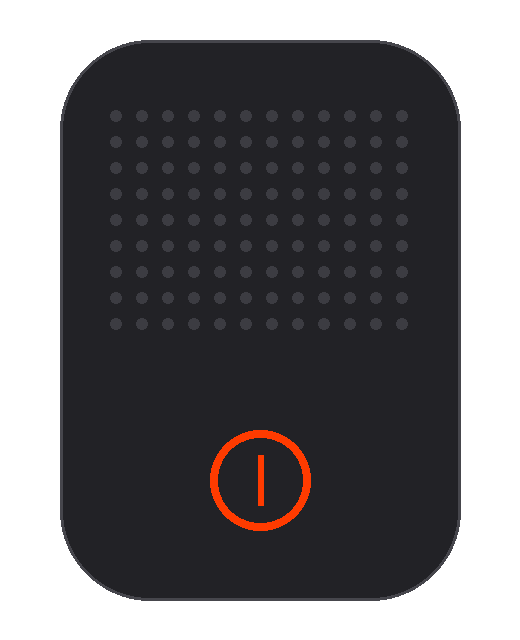
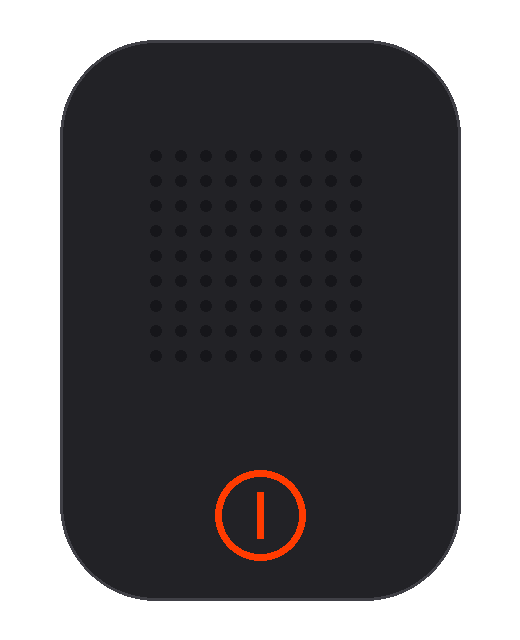
feat: three demo brands, so diversity is shown rather than asserted
The rubric scores clear, stable and diverse output, and every artefact so
far came from a single product. Added two more brands with different
silhouettes, palettes and categories — an insulated flask and a coffee
press — drawn deterministically, no model involved and no licensed
imagery.

scripts/diversity.py runs one verified campaign per brand and writes an
index. Nothing is configured per brand: each palette is derived from its
own logo, so if the pipeline were tuned to the speaker it would show.

The README now opens with the verified pair beside the refused one and the
measured W7900 figures, because a reviewer should meet the evidence before
the prose.

diff --git a/scripts/diversity.py b/scripts/diversity.py
@@ -1,0 +1,113 @@
+"""Run one verified campaign per brand, to show the pipeline is not tuned to one product.
+
+Each brand has a different silhouette, palette and category. The brand palette is
+derived from its own logo, so the backgrounds, accents and typography differ per run
+without any per-brand configuration.
+"""
+
+import argparse
+import asyncio
+import json
+import shutil
+import sys
+from pathlib import Path
+
+from rivet.pipeline.bootstrap import confirm_brand, derive_plan, ingest_asset
+from rivet.pipeline.campaign import run_campaign
+from rivet.storage.assets import AssetStore
+from rivet.storage.db import make_engine
+from rivet.storage.projects import ProjectStore
+from rivet.telemetry.vram import accelerator_report
+
+BRANDS = (
+    ("kora-arc", "Kora Arc", "a portable speaker for campus creators who record anywhere"),
+    ("lumen-flask", "Lumen", "an insulated water bottle for commuters who hate lukewarm coffee"),
+    ("terra-press", "Terra", "a manual coffee press for people who make one good cup a day"),
+)
+GALLERY = Path("docs/gallery")
+SEED = 7
+
+
+def run_brand(root: Path, slug: str, name: str, brief: str, vlm: bool) -> dict[str, object]:
+    fixture = Path("fixtures") / slug
+    engine = make_engine(root / "rivet.db")
+    projects = ProjectStore(engine)
+    assets = AssetStore(engine, root)
+    project = projects.create(name, campaign_seed=SEED)
+    product = ingest_asset(assets, project.id, fixture / "product.png", "product")
+    logo = ingest_asset(assets, project.id, fixture / "logo.png", "logo")
+    confirm_brand(engine, root, project.id, product, logo)
+    projects.set_brief(project.id, brief)
+    derive_plan(engine, project.id, product.path, use_vlm=vlm)
+    receipt = asyncio.run(run_campaign(engine, root, project.id, semantic=False))
+    data = json.loads(receipt.model_dump_json())
+
+    GALLERY.mkdir(parents=True, exist_ok=True)
+    stills: list[str] = []
+    for scene in data["scenes"]:
+        src = Path(scene["still_path"])
+        if src.is_file():
+            dest = GALLERY / f"brand-{slug}-{scene['shot_id']}.png"
+            shutil.copy2(src, dest)
+            stills.append(dest.name)
+    checks = [c for s in data["scenes"] for c in s["checks"]]
+    return {
+        "slug": slug,
+        "name": name,
+        "passed": data["passed"],
+        "receipt": data["receipt_hash"][:16],
+        "checks": f"{sum(1 for c in checks if c['passed'])}/{len(checks)}",
+        "headlines": [s["shot_id"] for s in data["scenes"]],
+        "copy": [
+            next(iter([c["observed"] for c in s["checks"] if c["check_id"] == "A03"]), "")
+            for s in data["scenes"]
+        ],
+        "stills": stills,
+    }
+
+
+def main() -> int:
+    parser = argparse.ArgumentParser(description=__doc__)
+    parser.add_argument("--workdir", type=Path, default=Path(".diversity"))
+    parser.add_argument("--no-vlm", dest="vlm", action="store_false")
+    args = parser.parse_args()
+
+    shutil.rmtree(args.workdir, ignore_errors=True)
+    results = []
+    for index, (slug, name, brief) in enumerate(BRANDS, start=1):
+        print(f"{index}/{len(BRANDS)} {name} ...", flush=True)
+        result = run_brand(args.workdir / slug, slug, name, brief, args.vlm)
+        results.append(result)
+        print(f"    passed={result['passed']} checks={result['checks']}")
+
+    env = accelerator_report()
+    where = env.get("accelerator") or env.get("device", "unknown")
+    lines = [
+        "# One pipeline, three brands",
+        "",
+        (
+            f"Produced by `scripts/diversity.py` on **{where}** "
+            f"(torch {env.get('torch', 'n/a')}, hip {env.get('hip', 'n/a')})."
+        ),
+        "",
+        "Nothing is configured per brand. The palette is derived from each logo, the copy and",
+        "background prompts are written per product, and the same ten checks gate every scene.",
+        "",
+        "| Brand | Verdict | Checks | Receipt |",
+        "| --- | --- | ---: | --- |",
+    ]
+    for r in results:
+        verdict = "verified" if r["passed"] else "blocked"
+        lines.append(f"| {r['name']} | {verdict} | {r['checks']} | `{r['receipt']}` |")
+    lines.append("")
+    for r in results:
+        lines += [f"### {r['name']}", ""]
+        lines += [f'<img src="{s}" width="200">' for s in r["stills"]]
+        lines.append("")
+    (GALLERY / "DIVERSITY.md").write_text("\n".join(lines))
+    print(f"wrote {GALLERY}/DIVERSITY.md")
+    return 0 if all(r["passed"] for r in results) else 1
+
+
+if __name__ == "__main__":
+    sys.exit(main())

diff --git a/scripts/make_fixtures.py b/scripts/make_fixtures.py
@@ -1,0 +1,86 @@
+"""Draw the demo brands.
+
+Three products in different categories, shapes and palettes, so a reviewer can see
+the pipeline is not tuned to one silhouette. Everything here is deterministic
+drawing: no model runs, and the assets are original rather than licensed imagery.
+"""
+
+import sys
+from pathlib import Path
+
+from PIL import Image, ImageDraw
+
+from rivet.compositor.typography import load_font
+
+FIXTURES = Path("fixtures")
+
+
+def _logo(name: str, accent: tuple[int, int, int], out: Path) -> None:
+    image = Image.new("RGBA", (560, 150), (0, 0, 0, 0))
+    draw = ImageDraw.Draw(image)
+    draw.ellipse([12, 45, 72, 105], fill=accent)
+    draw.ellipse([30, 63, 54, 87], fill=(10, 10, 12, 255))
+    font = load_font(58, 600)
+    draw.text((92, 44), name, font=font, fill=(250, 250, 250, 255))
+    image.save(out)
+
+
+def kora_arc(out: Path) -> None:
+    image = Image.new("RGBA", (520, 640), (0, 0, 0, 0))
+    draw = ImageDraw.Draw(image)
+    draw.rounded_rectangle([60, 40, 460, 600], radius=96, fill=(34, 34, 38, 255))
+    draw.rounded_rectangle([60, 40, 460, 600], radius=96, outline=(64, 64, 70, 255), width=3)
+    for row in range(9):
+        for col in range(9):
+            x = 150 + col * 25
+            y = 150 + row * 25
+            draw.ellipse([x, y, x + 11, y + 11], fill=(22, 22, 26, 255))
+    draw.ellipse([215, 470, 305, 560], outline=(255, 59, 0, 255), width=7)
+    draw.line([260, 492, 260, 538], fill=(255, 59, 0, 255), width=7)
+    image.save(out)
+
+
+def lumen_flask(out: Path) -> None:
+    image = Image.new("RGBA", (520, 640), (0, 0, 0, 0))
+    draw = ImageDraw.Draw(image)
+    draw.rounded_rectangle([170, 30, 350, 96], radius=26, fill=(206, 212, 218, 255))
+    draw.rounded_rectangle([150, 90, 370, 610], radius=72, fill=(232, 236, 240, 255))
+    draw.rounded_rectangle([150, 90, 370, 610], radius=72, outline=(178, 186, 194, 255), width=3)
+    draw.rounded_rectangle([186, 150, 232, 560], radius=22, fill=(255, 255, 255, 90))
+    draw.rounded_rectangle([150, 300, 370, 392], radius=10, fill=(23, 132, 176, 255))
+    font = load_font(34, 600)
+    draw.text((196, 328), "LUMEN", font=font, fill=(255, 255, 255, 255))
+    image.save(out)
+
+
+def terra_press(out: Path) -> None:
+    image = Image.new("RGBA", (520, 640), (0, 0, 0, 0))
+    draw = ImageDraw.Draw(image)
+    draw.polygon([(120, 250), (400, 250), (368, 596), (152, 596)], fill=(84, 58, 42, 255))
+    draw.polygon([(120, 250), (400, 250), (392, 288), (128, 288)], fill=(104, 74, 54, 255))
+    draw.rounded_rectangle([196, 96, 324, 262], radius=18, fill=(58, 40, 30, 255))
+    draw.rounded_rectangle([222, 60, 298, 112], radius=14, fill=(140, 104, 72, 255))
+    draw.ellipse([214, 380, 306, 472], fill=(212, 168, 116, 255))
+    image.save(out)
+
+
+BRANDS = (
+    ("kora-arc", "Kora Arc", kora_arc, (255, 59, 0)),
+    ("lumen-flask", "Lumen", lumen_flask, (23, 132, 176)),
+    ("terra-press", "Terra", terra_press, (196, 132, 74)),
+)
+
+
+def main() -> int:
+    for slug, wordmark, draw_product, accent in BRANDS:
+        folder = FIXTURES / slug
+        folder.mkdir(parents=True, exist_ok=True)
+        draw_product(folder / "product.png")
+        _logo(wordmark, accent, folder / "logo.png")
+        print(f"  {slug}: product.png logo.png")
+    print(f"wrote {len(BRANDS)} brand fixtures")
+    return 0
+
+
+if __name__ == "__main__":
+    sys.exit(main())

diff --git a/README.md b/README.md
@@ -6,6 +6,25 @@ A product image, brand kit and spoken brief become a verified three-scene vertic
 
 Built for the AMD AI DevMaster Hackathon 2026 (Track 1: Multimodal Content Creation Tools) on a Radeon PRO W7900 · 48GB · ROCm 7.2.1.
 
+<p align="center">
+  <img src="docs/gallery/hero-hook.jpg" width="220" alt="Hook scene">
+  <img src="docs/gallery/hero-cta.jpg" width="220" alt="Call to action scene">
+  <img src="docs/gallery/blocked-hook.jpg" width="220" alt="Blocked scene">
+</p>
+
+**Left and centre: a verified export.** **Right: the same advertisement, refused.** The product
+file was altered after the brand approved it; A01 compared the confirmed sha256 against the bytes
+actually composited, failed, and no export pack was written. Both runs are real output from the
+W7900 — see [docs/gallery/](docs/gallery/).
+
+| Measured on the W7900 | |
+|---|---|
+| Full campaign, cold | **67.8s** — plan, generate, audit, render, pack |
+| Same work, models resident | **41.2s** |
+| Deterministic checks | **27/27** across three scenes |
+| Peak VRAM | 9168 MB of 49136 |
+| Offline, every socket blocked | **passes** |
+
 ## Why it is different
 
 Most generative ad tools ask you to trust the output. Rivet proves it.
